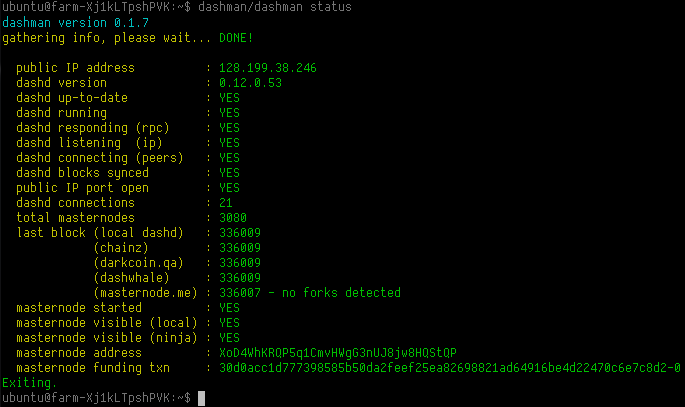
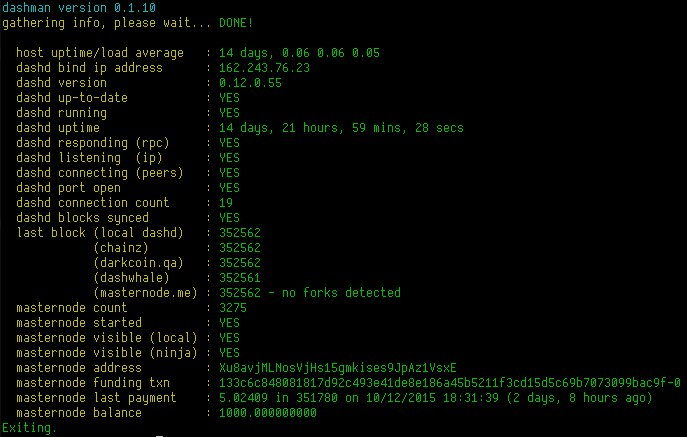
version bump

diff --git a/CHANGELOG.md b/CHANGELOG.md
@@ -1,4 +1,17 @@
 
+0.1.11 -  Wed Oct 14 08:19:10 2015 +0000
+
+    added balance display
+
+    bugfix - proper sync exec when called from relative path
+    bugfix - voting - fail gracefully when dash-cli not in path
+    bugfix - use initial api pull values for last payment
+    bugfix - proper ipv6 formatting for hot-node voting
+
+    support multiple sync exec arguments
+    moved scripts to bin directory
+    style - unify all gathering messages
+
 0.1.10 -  Tue Oct 13 07:18:29 2015 +0000
 
     added ipv6 support - use icanhazip for ipv4/6 polling

diff --git a/README.md b/README.md
@@ -1,6 +1,6 @@
 # dashman
 
-DASH wallet/daemon management utilities - version 0.1.10
+DASH wallet/daemon management utilities - version 0.1.11
 
 * This script installs, updates, and manages single-user dash daemons and wallets
 * It is currently only compatible with 32/64 bit linux.
